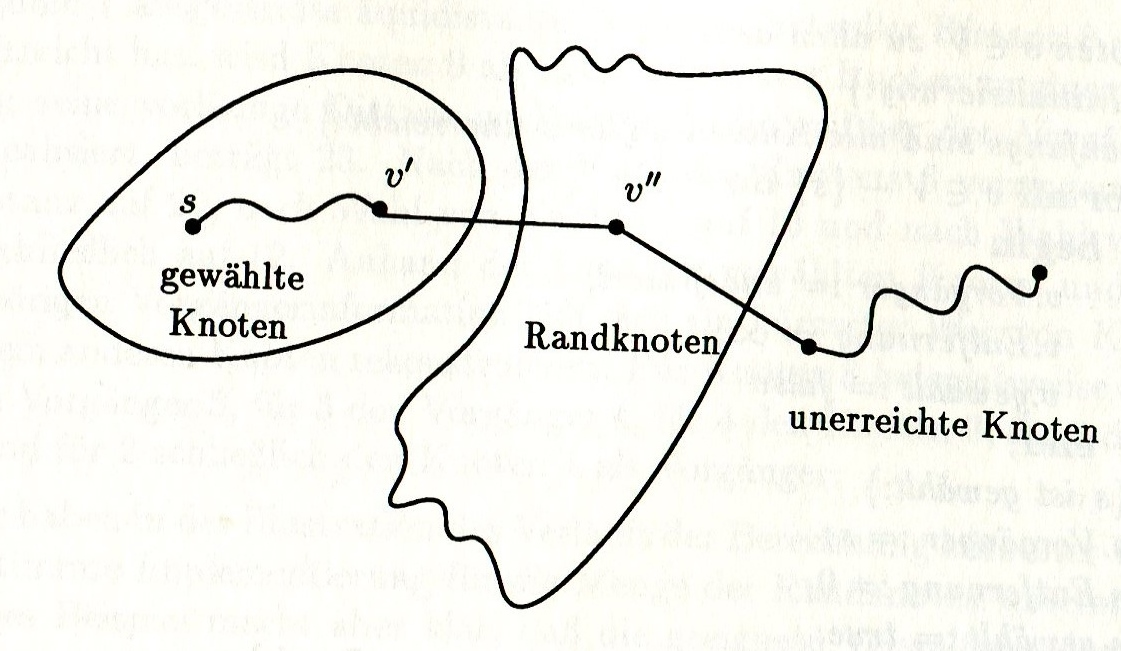
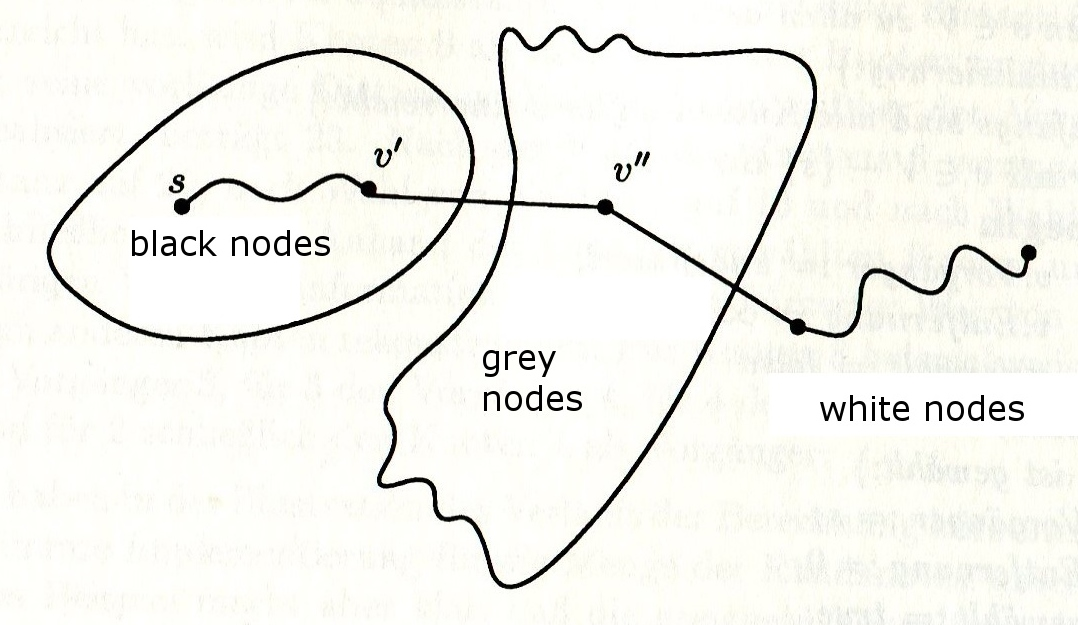
Grafik angepasst (Bezeichnungen so geändert, dass sie zum Text passen)

diff --git a/chapters/Dijktra_Algorithmus.tex b/chapters/Dijktra_Algorithmus.tex
@@ -35,7 +35,7 @@ Auf das Greedy-Prinzip wird in dieser Arbeit jedoch nicht tiefergehend eingegang
 \begin{figure}[h]
 \centering
 \includegraphics[width = 8cm]{./chapters/knotentypen.jpg}
-\caption{Knotentypen {\tiny (Quelle: OTTMANN, Thomas; WIDMAYER Peter: Algorithmen und Datenstrukturen, Reihe Informatik Bd. 70, Mannheim: BI-Wissenschaftsverlag, 1990, S.573 Abb. 8.19)} }
+\caption{Knotentypen {\tiny (Abbildung basiert auf: OTTMANN, Thomas; WIDMAYER Peter: Algorithmen und Datenstrukturen, Reihe Informatik Bd. 70, Mannheim: BI-Wissenschaftsverlag, 1990, S.573 Abb. 8.19)} }
 \label{a1}
 \end{figure}
 
